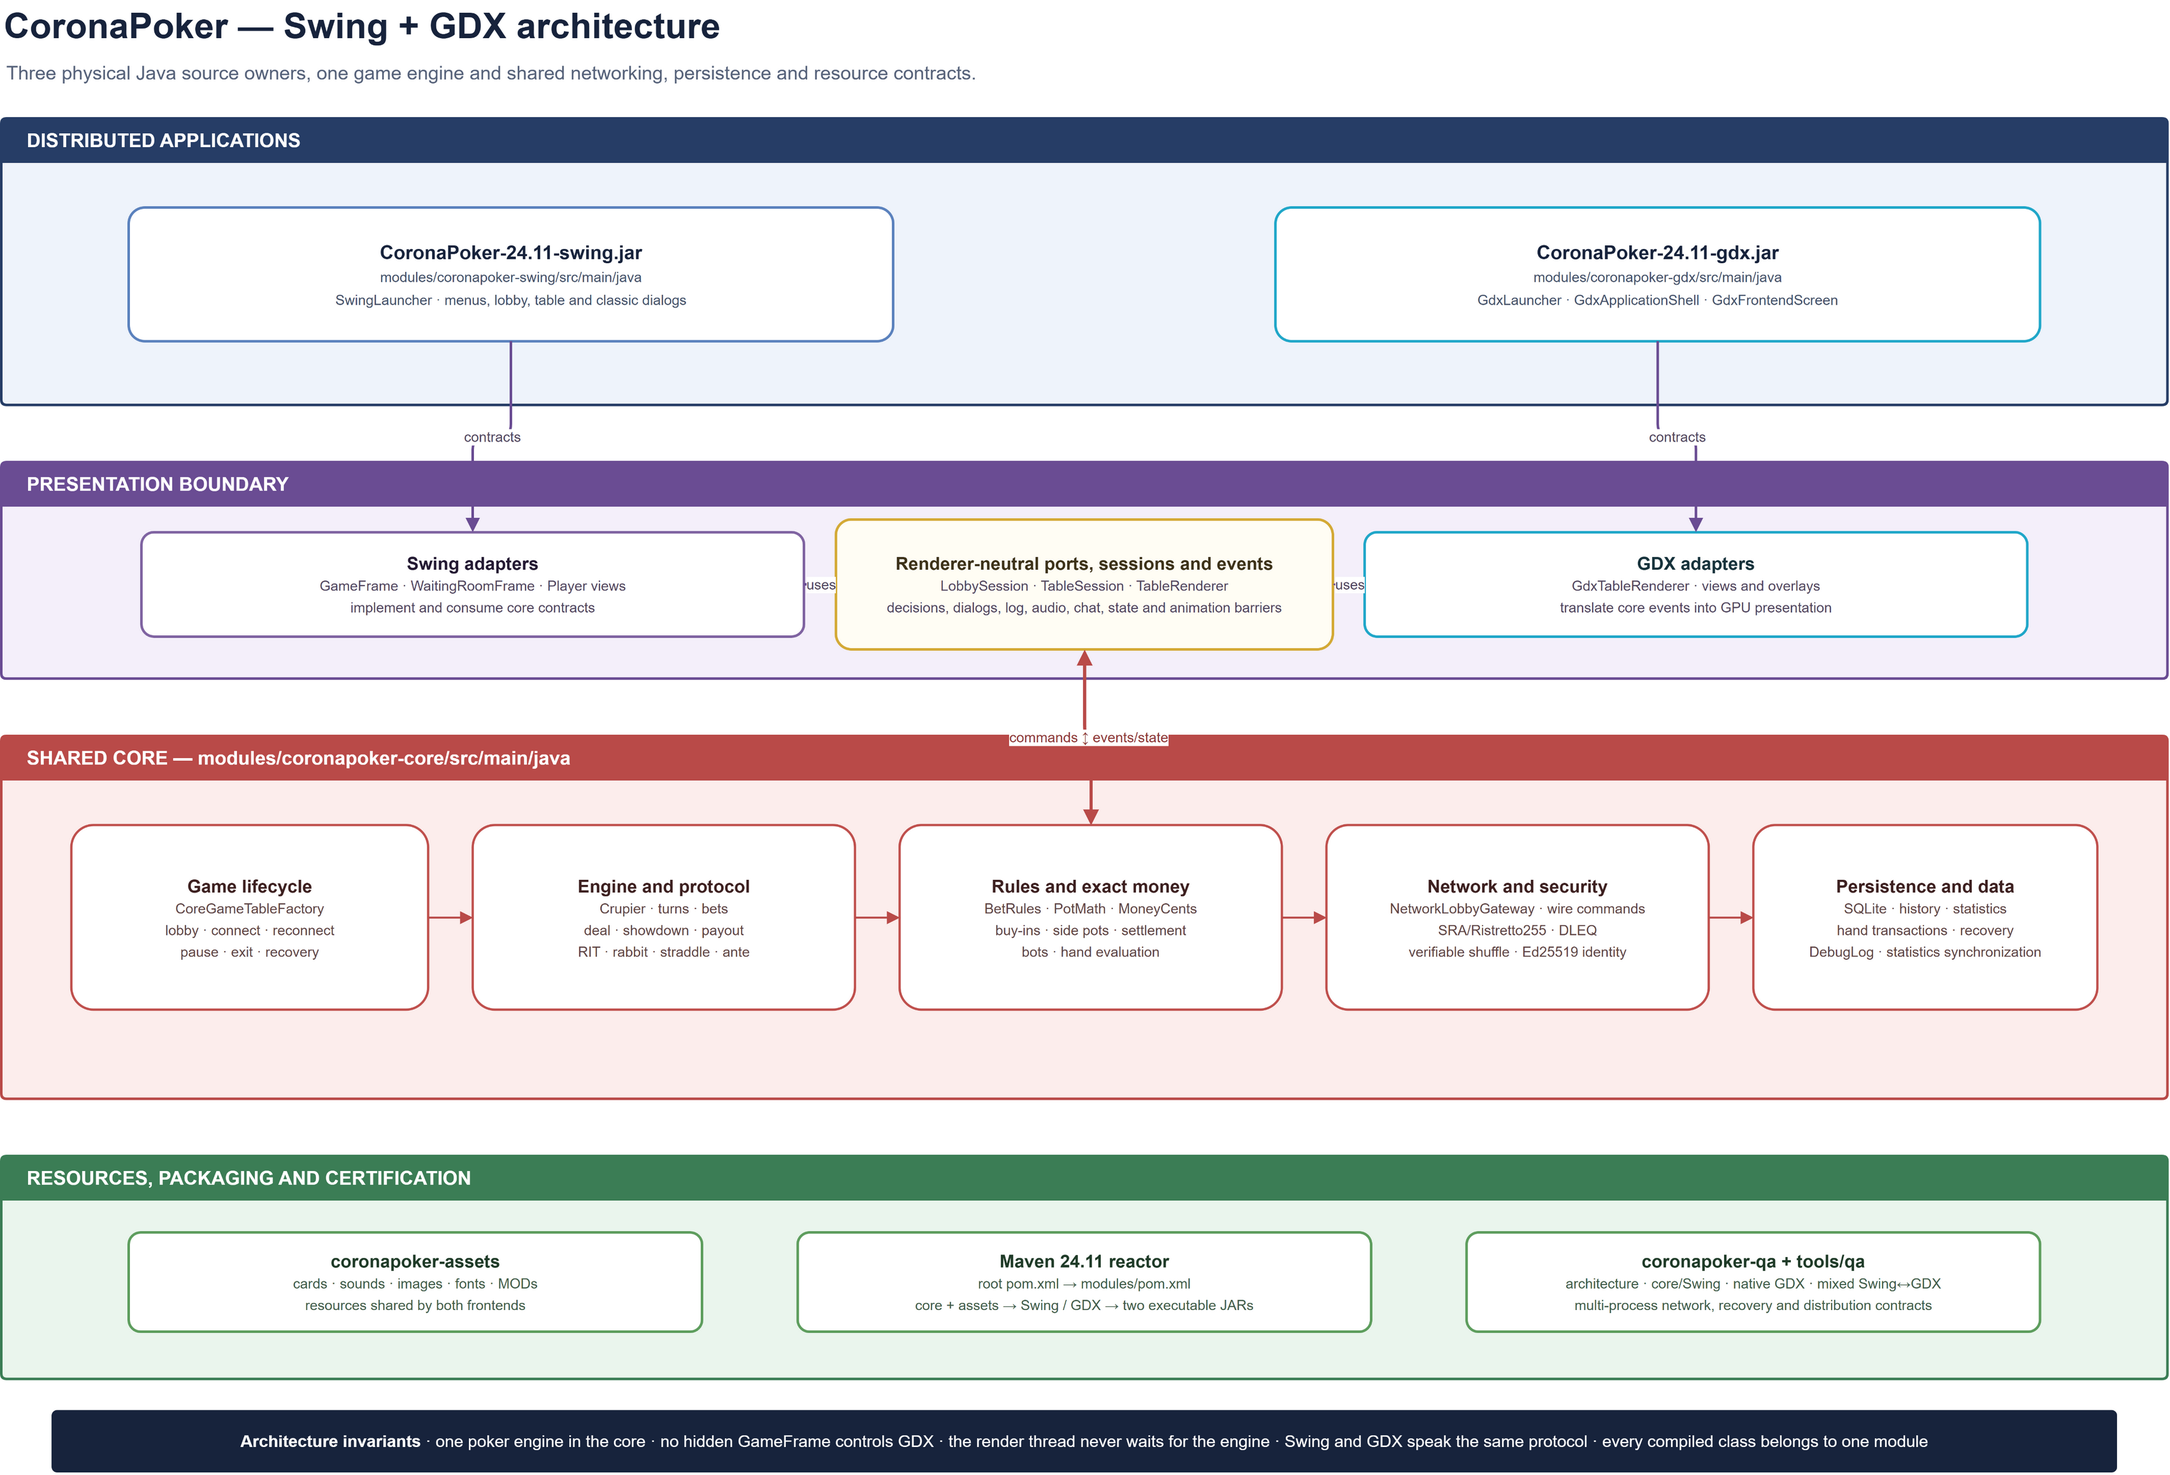
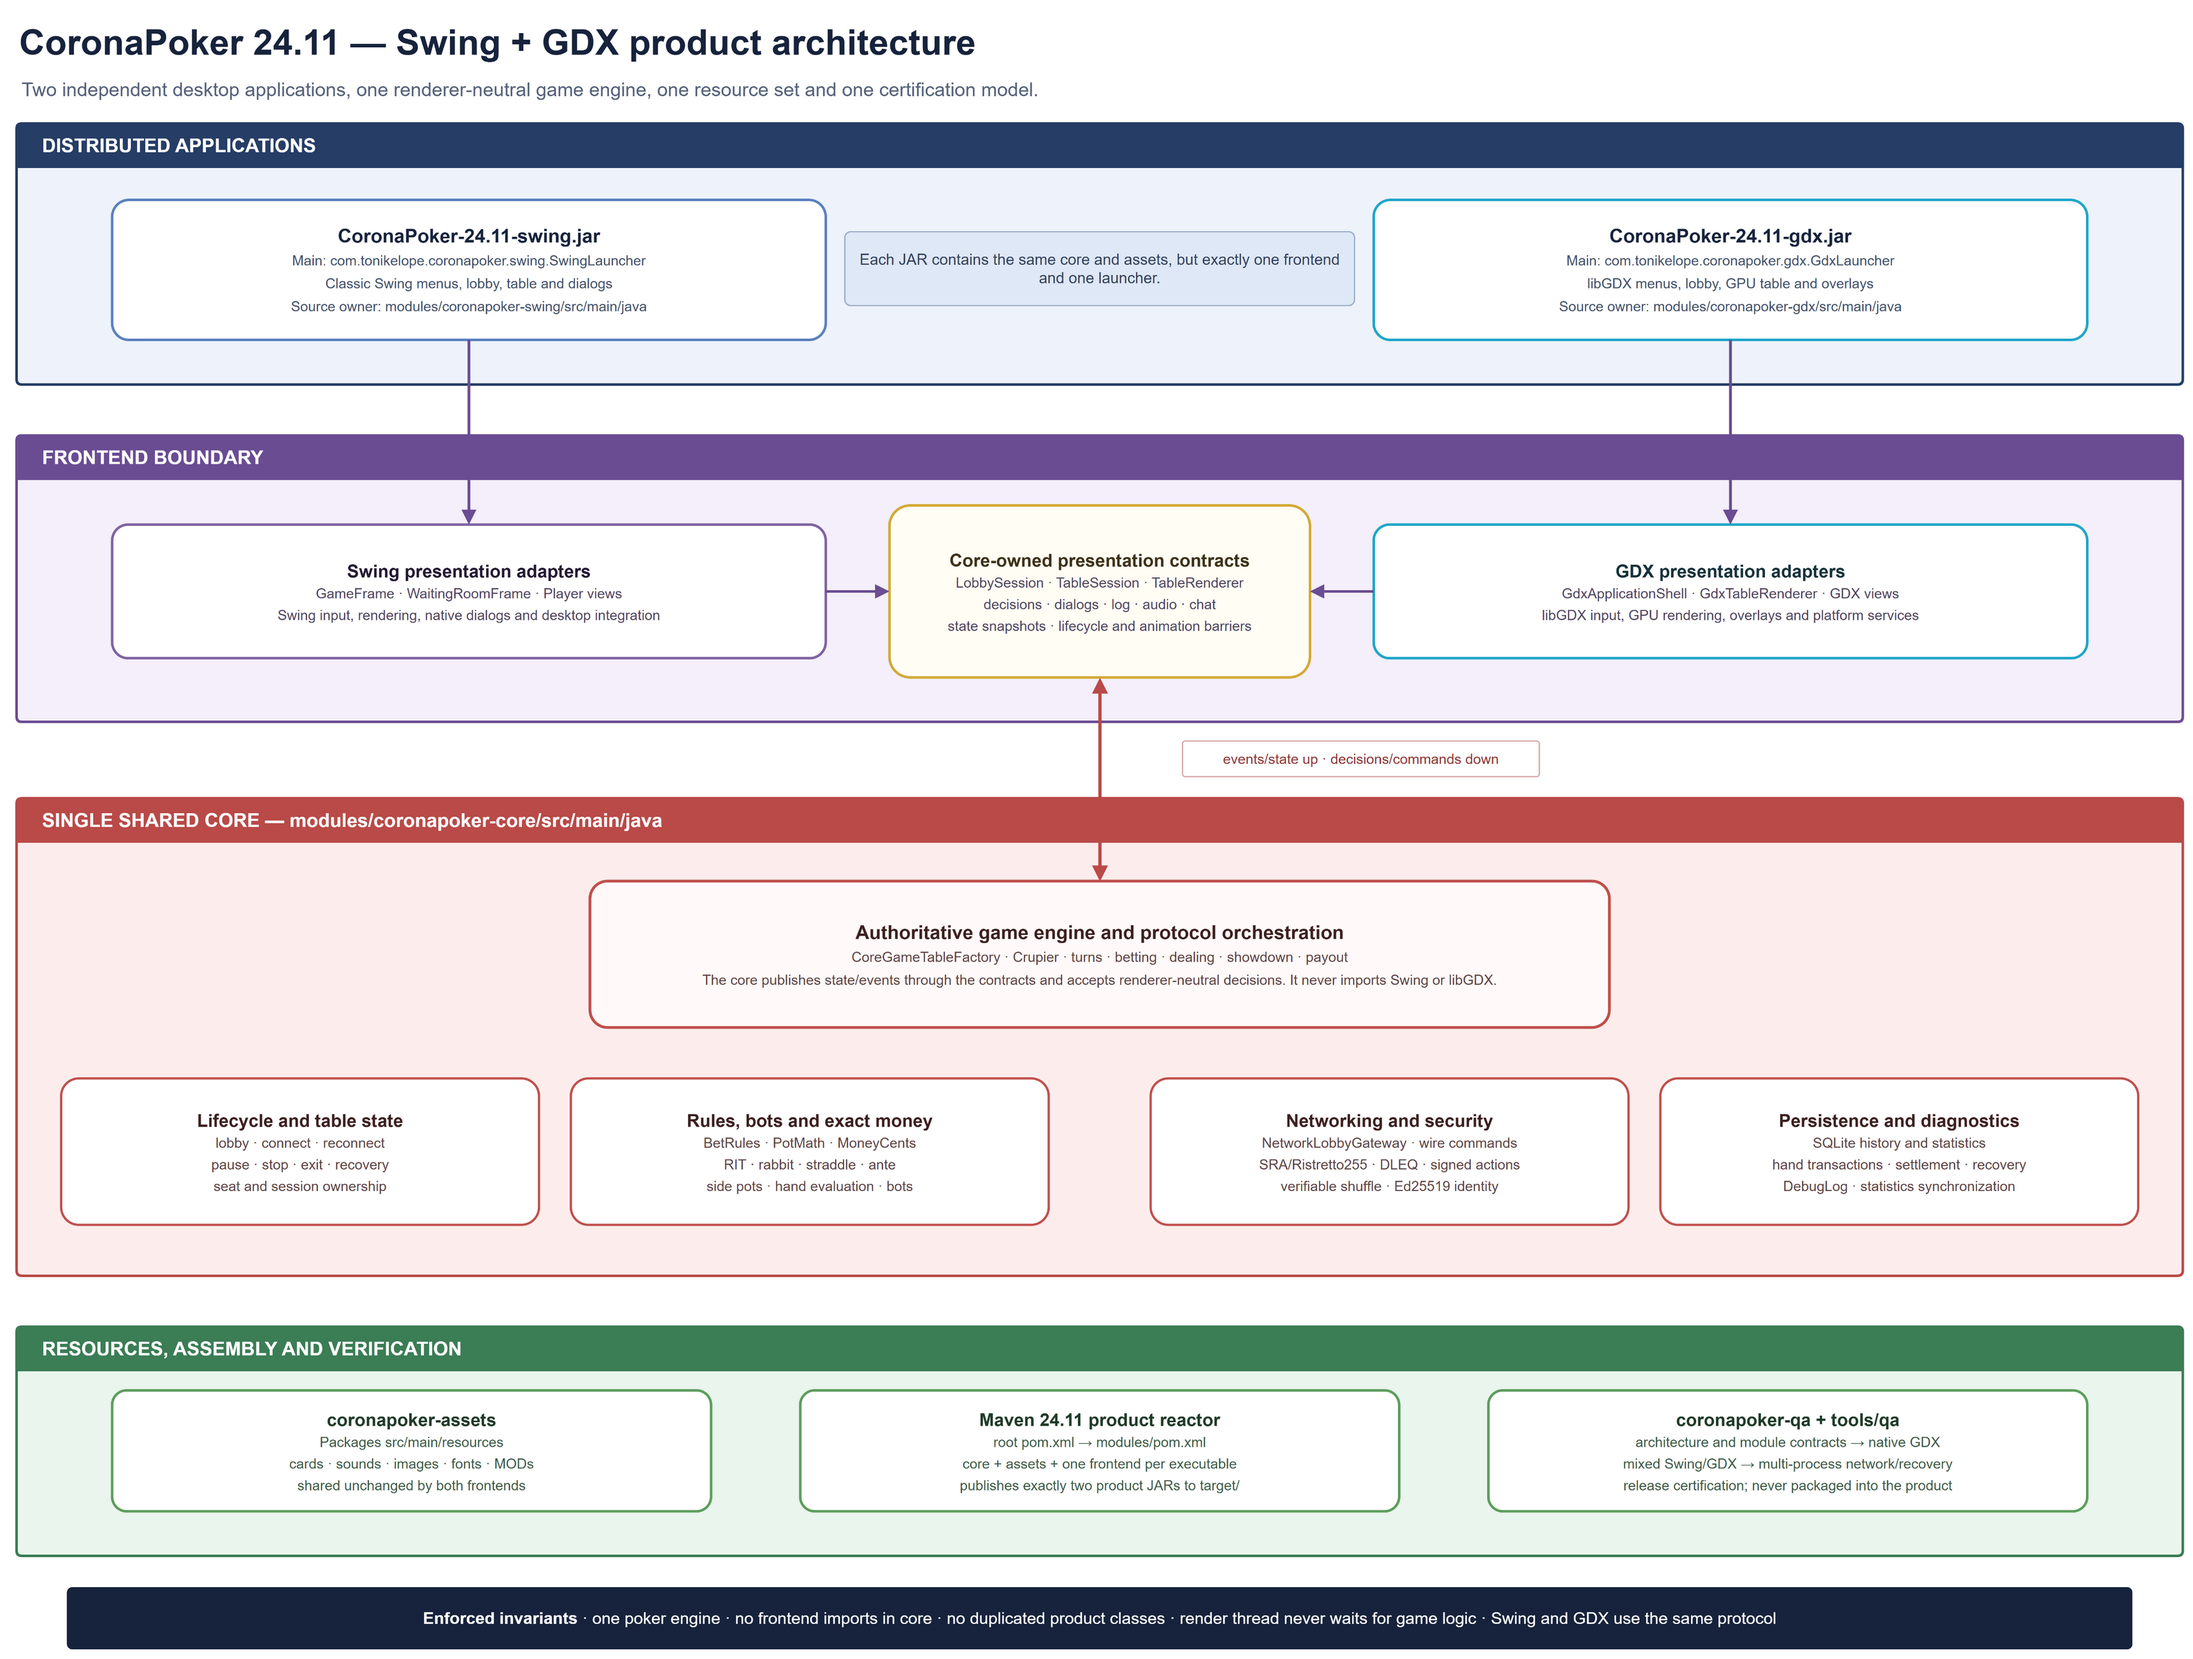
docs: clarify modular product architecture

diff --git a/README.md b/README.md
@@ -15,23 +15,6 @@ I hope you enjoy playing it as much as I have enjoyed building it.
 
 **Carpe diem.**
 
-## Repository layout
-
-- `pom.xml`: canonical CoronaPoker 24.11 build entry point.
-- `modules/coronapoker-core/`: shared game, networking, persistence and
-  renderer-neutral presentation contracts.
-- `modules/coronapoker-swing/`: classic Swing frontend.
-- `modules/coronapoker-gdx/`: libGDX frontend.
-- `modules/coronapoker-assets/`: shared resources packaged from
-  `src/main/resources`.
-- `modules/coronapoker-qa/` and `tools/qa/`: architecture tests,
-  certification suites and multi-process scenarios.
-- `docs/`: architecture, security, testing and contributor documentation.
-- `target/`: the only directory containing the Swing and GDX product JARs.
-- `coronaupdater.jar`: special root-level updater artifact required by the
-  GitHub self-update mechanism.
-
-
 <p align="center"><a href="https://github.com/tonikelope/coronapoker/releases/latest" target="_blank"><img src="https://raw.githubusercontent.com/tonikelope/megabasterd/master/src/main/resources/images/linux-mac-windows.png"></a></p>
 
 <h1 align="center"><a href="https://github.com/tonikelope/coronapoker/releases/latest"><b>DOWNLOAD CORONAPOKER</b></a></h1>
@@ -250,6 +233,22 @@ contracts live in `modules/coronapoker-core`, the classic UI lives in
 packaged by `modules/coronapoker-assets`. Architecture tests enforce these
 ownership boundaries, prohibit frontend dependencies in the core and reject
 duplicated product classes.
+
+### Repository layout
+
+- `pom.xml`: canonical CoronaPoker 24.11 build entry point.
+- `modules/coronapoker-core/`: shared game, networking, persistence and
+  renderer-neutral presentation contracts.
+- `modules/coronapoker-swing/`: classic Swing frontend.
+- `modules/coronapoker-gdx/`: libGDX frontend.
+- `modules/coronapoker-assets/`: shared resources packaged from
+  `src/main/resources`.
+- `modules/coronapoker-qa/` and `tools/qa/`: architecture tests,
+  certification suites and multi-process scenarios.
+- `docs/`: architecture, security, testing and contributor documentation.
+- `target/`: the only directory containing the Swing and GDX product JARs.
+- `coronaupdater.jar`: special root-level updater artifact required by the
+  GitHub self-update mechanism.
 
 The cryptographic subsystem, covering verifiable **SRA / Ristretto255** dealing with DLEQ proofs, the zero-knowledge **Bayer-Groth** shuffle, per-nick **Ed25519** identity, the per-hand `H_t` ratchet and the receipt consensus, has its own two diagrams (a component architecture and a full per-hand protocol sequence) embedded in **[`docs/SECURITY.md`](docs/SECURITY.md)**.
 
